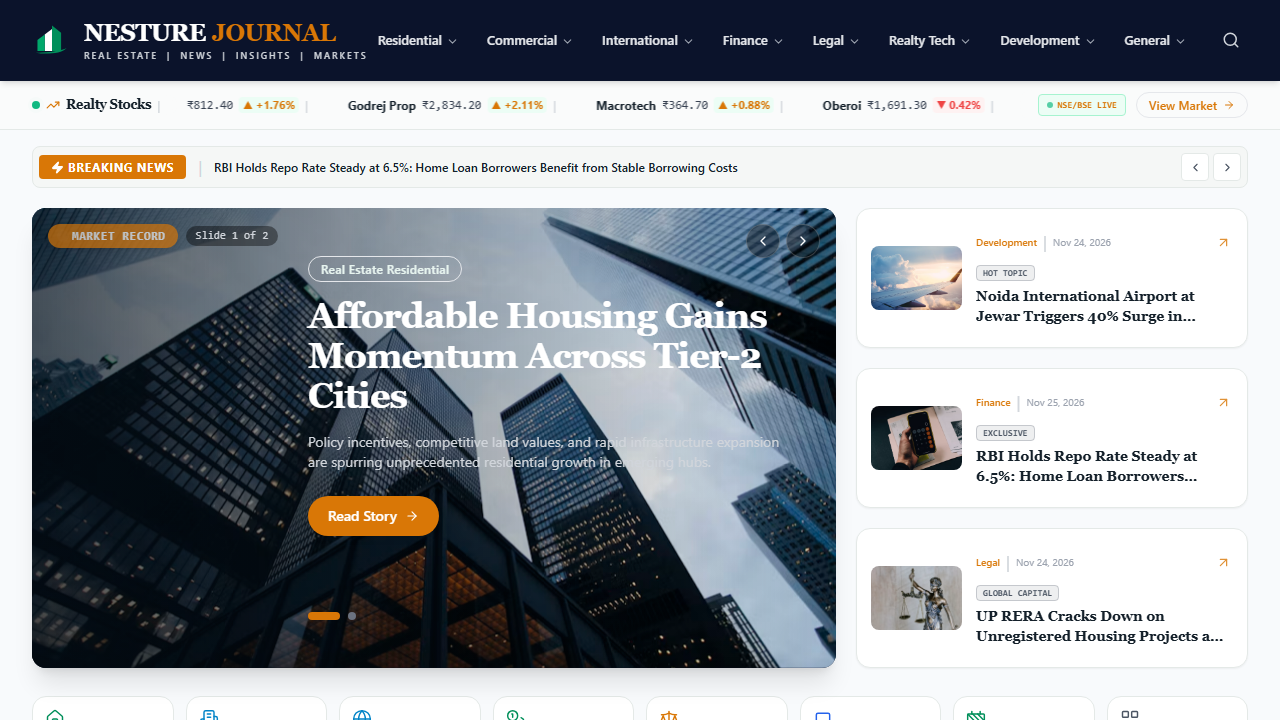
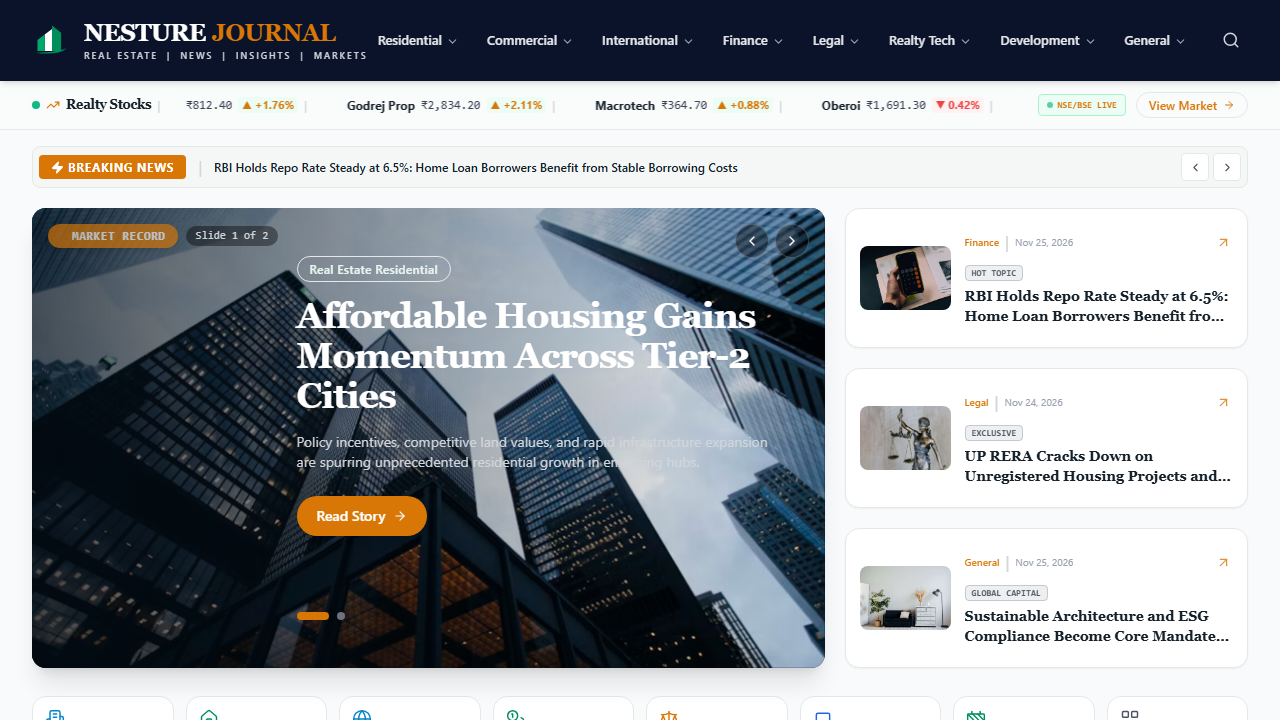
UI change complete

diff --git a/components/home/HeroSection.tsx b/components/home/HeroSection.tsx
@@ -105,7 +105,7 @@ export default function HeroSection() {
   const [slides, setSlides] = useState<HeroStory[]>(DEFAULT_SLIDES);
   const [cards, setCards] = useState(DEFAULT_RIGHT_CARDS);
   const [isPaused, setIsPaused] = useState(false);
-  const dragBaseRef = useRef({ heroHeight: 460, sideHeight: 85, thumbWidth: 96 });
+  const dragBaseRef = useRef({ heroHeight: 460, heroWidthPct: 66, sideHeight: 85, thumbWidth: 96 });
 
   useEffect(() => {
     fetch('/api/articles?status=PUBLISHED&limit=20', { cache: 'no-store' })
@@ -218,7 +218,9 @@ export default function HeroSection() {
     return null;
   }
 
-  const isFullWidth = theme?.heroWidth === 'full';
+  const customWidthPct = (theme as any)?.heroWidthPct as number | undefined;
+  const isFullWidth = customWidthPct !== undefined ? customWidthPct >= 92 : theme?.heroWidth === 'full';
+  const effectiveWidthPct = customWidthPct ?? (isFullWidth ? 100 : 66);
   const bannerMinHeight = theme?.heroHeight || '460px';
   const bannerHeightNum = parseInt(bannerMinHeight, 10) || 460;
   const sideCardHeightNum = parseInt(theme?.sideCardHeight || '85px', 10) || 85;
@@ -226,34 +228,43 @@ export default function HeroSection() {
 
   return (
     <section className="max-w-[1440px] mx-auto px-3 sm:px-6 lg:px-8 py-3">
-      <div className="grid grid-cols-1 lg:grid-cols-12 gap-4 lg:gap-5">
-        {/* Left Hero Big Banner Card - Dynamic 8-Col or 12-Col Full Width with Auto-Reflow */}
+      <div className="flex flex-col lg:flex-row lg:flex-wrap gap-4 lg:gap-5 items-stretch">
+        {/* Left Hero Big Banner Card - Freeform Width & Height */}
         <div
-          style={{ height: bannerMinHeight, borderRadius: theme?.borderRadius || '14px' }}
-          className={`${
-            isFullWidth ? 'lg:col-span-12' : 'lg:col-span-8'
-          } relative`}
+          style={{
+            height: bannerMinHeight,
+            borderRadius: theme?.borderRadius || '14px',
+            flexBasis: isFullWidth ? '100%' : `calc(${effectiveWidthPct}% - 10px)`,
+            maxWidth: '100%',
+          }}
+          className="w-full lg:w-auto flex-shrink-0 relative"
         >
           <CustomizerSectionHandles
-            badgeText={`Banner: ${bannerHeightNum}px × ${isFullWidth ? '12-Cols' : '8-Cols'}`}
+            badgeText={`Banner: ${bannerHeightNum}px × ${effectiveWidthPct}%`}
             bottomLabel={`Drag with mouse to resize (${bannerHeightNum}px)`}
-            sideLabel={isFullWidth ? '12-Col' : '8-Col'}
+            sideLabel={`${effectiveWidthPct}%`}
             onDragStart={() => {
               dragBaseRef.current.heroHeight = bannerHeightNum;
+              dragBaseRef.current.heroWidthPct = effectiveWidthPct;
             }}
             onVerticalDrag={(deltaY) => {
-              const nextH = Math.max(280, Math.min(650, dragBaseRef.current.heroHeight + deltaY));
+              const nextH = Math.max(180, Math.min(900, dragBaseRef.current.heroHeight + deltaY));
               broadcastCustomizerResize({ heroHeight: `${nextH}px` });
             }}
             onHorizontalDrag={(deltaX) => {
-              if (deltaX > 25 && !isFullWidth) {
-                broadcastCustomizerResize({ heroWidth: 'full' });
-              } else if (deltaX < -25 && isFullWidth) {
-                broadcastCustomizerResize({ heroWidth: 'split' });
-              }
+              const deltaPct = Math.round(deltaX / 8);
+              const nextPct = Math.max(40, Math.min(100, dragBaseRef.current.heroWidthPct + deltaPct));
+              broadcastCustomizerResize({
+                heroWidthPct: nextPct,
+                heroWidth: nextPct >= 92 ? 'full' : 'split',
+              } as any);
             }}
             onHorizontalClick={() => {
-              broadcastCustomizerResize({ heroWidth: isFullWidth ? 'split' : 'full' });
+              const nextPct = isFullWidth ? 66 : 100;
+              broadcastCustomizerResize({
+                heroWidthPct: nextPct,
+                heroWidth: nextPct >= 92 ? 'full' : 'split',
+              } as any);
             }}
           />
           <div
@@ -361,13 +372,13 @@ export default function HeroSection() {
         </div>
         </div>
 
-        {/* Right Stacked Stories (4 Cols / or 12-Cols 3-Card Row when Full Width) */}
+        {/* Right Stacked Stories (flexes alongside banner or wraps below when >= 92%) */}
         <div
           id="hero-side-stories"
           className={`relative rounded-2xl ${
             isFullWidth
-              ? 'lg:col-span-12 grid grid-cols-1 sm:grid-cols-3 gap-3 sm:gap-4'
-              : 'lg:col-span-4 flex flex-col justify-between space-y-3 sm:space-y-4'
+              ? 'w-full grid grid-cols-1 sm:grid-cols-3 gap-3 sm:gap-4'
+              : 'w-full lg:flex-1 lg:min-w-[260px] flex flex-col justify-between space-y-3 sm:space-y-4'
           }`}
         >
           <CustomizerSectionHandles
@@ -379,11 +390,11 @@ export default function HeroSection() {
               dragBaseRef.current.thumbWidth = sideThumbWidthNum;
             }}
             onVerticalDrag={(deltaY) => {
-              const nextH = Math.max(60, Math.min(140, dragBaseRef.current.sideHeight + Math.round(deltaY / 2)));
+              const nextH = Math.max(50, Math.min(260, dragBaseRef.current.sideHeight + Math.round(deltaY / 2)));
               broadcastCustomizerResize({ sideCardHeight: `${nextH}px` });
             }}
             onHorizontalDrag={(deltaX) => {
-              const nextW = Math.max(64, Math.min(150, dragBaseRef.current.thumbWidth + Math.round(deltaX / 2)));
+              const nextW = Math.max(48, Math.min(220, dragBaseRef.current.thumbWidth + Math.round(deltaX / 2)));
               broadcastCustomizerResize({ sideCardThumbnailWidth: `${nextW}px` });
             }}
           />

diff --git a/app/admin/articles/page.tsx b/app/admin/articles/page.tsx
@@ -113,14 +113,24 @@ function ArticlesDeskContent() {
     id?: string;
     currentStatus?: string;
     title?: string;
+    anchor?: { top: number; bottom: number; left: number; right: number };
   } | null>(null);
 
-  const handleTogglePublish = (id: string, currentStatus: string, title?: string) => {
+  const handleTogglePublish = (
+    id: string,
+    currentStatus: string,
+    title?: string,
+    e?: React.MouseEvent<HTMLElement>
+  ) => {
+    const rect = e?.currentTarget?.getBoundingClientRect();
     setPublishConfirm({
       mode: 'single',
       id,
       currentStatus,
       title: title || 'this article',
+      anchor: rect
+        ? { top: rect.top, bottom: rect.bottom, left: rect.left, right: rect.right }
+        : undefined,
     });
   };
 
@@ -358,7 +368,13 @@ function ArticlesDeskContent() {
               {counts.unpublished > 0 && (
                 <button
                   type="button"
-                  onClick={() => setPublishConfirm({ mode: 'all' })}
+                  onClick={(e) => {
+                    const rect = e.currentTarget.getBoundingClientRect();
+                    setPublishConfirm({
+                      mode: 'all',
+                      anchor: { top: rect.top, bottom: rect.bottom, left: rect.left, right: rect.right },
+                    });
+                  }}
                   disabled={isPublishing}
                   className="px-4 py-2.5 bg-[#008F5A] hover:bg-[#007348] text-white text-xs font-extrabold rounded-xl transition btn-press flex items-center space-x-2 shadow-md disabled:opacity-60"
                 >
@@ -638,7 +654,7 @@ function ArticlesDeskContent() {
 
                     {/* Publish / Unpublish Button */}
                     <button
-                      onClick={() => handleTogglePublish(art.id, art.status, art.title)}
+                      onClick={(e) => handleTogglePublish(art.id, art.status, art.title, e)}
                       className={`px-3.5 py-1.5 text-xs font-extrabold rounded-xl shadow-xs transition btn-press flex items-center space-x-1.5 ${
                         isPub
                           ? 'bg-slate-100 hover:bg-slate-200 text-slate-700'
@@ -794,7 +810,7 @@ function ArticlesDeskContent() {
                           </Link>
 
                           <button
-                            onClick={() => handleTogglePublish(art.id, art.status, art.title)}
+                            onClick={(e) => handleTogglePublish(art.id, art.status, art.title, e)}
                             title={isPub ? 'Unpublish to Draft' : 'Publish Live'}
                             className="p-1 text-slate-400 hover:text-amber-600 rounded-lg hover:bg-amber-50 transition"
                           >
@@ -931,7 +947,7 @@ function ArticlesDeskContent() {
 
               <div className="flex items-center space-x-2">
                 <button
-                  onClick={() => handleTogglePublish(previewArticle.id, previewArticle.status, previewArticle.title)}
+                  onClick={(e) => handleTogglePublish(previewArticle.id, previewArticle.status, previewArticle.title, e)}
                   className={`px-5 py-1.5 text-xs font-extrabold rounded-xl transition btn-press shadow-xs ${
                     previewArticle.status === 'PUBLISHED'
                       ? 'bg-amber-600 hover:bg-amber-700 text-white'
@@ -957,11 +973,25 @@ function ArticlesDeskContent() {
          ========================================================================= */}
       {publishConfirm && (
         <div
-          className="fixed inset-0 bg-slate-900/60 backdrop-blur-xs z-50 flex items-center justify-center p-4 animate-fade-in"
+          className="fixed inset-0 bg-slate-900/25 z-50 animate-fade-in"
           onClick={() => !isPublishing && setPublishConfirm(null)}
         >
           <div
-            className="bg-white rounded-2xl max-w-md w-full p-6 shadow-2xl border border-slate-200 space-y-4"
+            style={
+              publishConfirm.anchor && typeof window !== 'undefined'
+                ? {
+                    position: 'fixed',
+                    top: `${Math.max(16, Math.min(window.innerHeight - 230, publishConfirm.anchor.bottom + 8))}px`,
+                    left: `${Math.max(16, Math.min(window.innerWidth - 400, publishConfirm.anchor.left - 120))}px`,
+                  }
+                : {
+                    position: 'fixed',
+                    top: '50%',
+                    left: '50%',
+                    transform: 'translate(-50%, -50%)',
+                  }
+            }
+            className="bg-white rounded-2xl max-w-sm w-[calc(100vw-32px)] p-5 shadow-2xl border-2 border-emerald-500/40 space-y-3.5"
             onClick={(e) => e.stopPropagation()}
           >
             <div className="flex items-center space-x-3">

diff --git a/components/home/LatestInsightsSection.tsx b/components/home/LatestInsightsSection.tsx
@@ -170,7 +170,7 @@ export default function LatestInsightsSection() {
               dragBaseRef.current.imgHeight = imgHeightNum;
             }}
             onVerticalDrag={(deltaY) => {
-              const nextH = Math.max(120, Math.min(280, dragBaseRef.current.imgHeight + Math.round(deltaY / 2)));
+              const nextH = Math.max(80, Math.min(420, dragBaseRef.current.imgHeight + Math.round(deltaY / 2)));
               broadcastCustomizerResize({ insightsCardImageHeight: `${nextH}px` });
             }}
             onHorizontalDrag={(deltaX) => {
@@ -267,7 +267,7 @@ export default function LatestInsightsSection() {
               dragBaseRef.current.marketHeight = marketHeightNum;
             }}
             onVerticalDrag={(deltaY) => {
-              const nextH = Math.max(320, Math.min(560, dragBaseRef.current.marketHeight + deltaY));
+              const nextH = Math.max(240, Math.min(800, dragBaseRef.current.marketHeight + deltaY));
               broadcastCustomizerResize({ marketWidgetHeight: `${nextH}px` });
             }}
           />

diff --git a/app/admin/login/page.tsx b/app/admin/login/page.tsx
@@ -66,9 +66,9 @@ export default function AdminLoginPage() {
             <ShieldCheck size={14} />
             <span>Editorial Management System</span>
           </div>
-          <p className="text-gray-400 text-xs sm:text-sm mt-1.5">
+          {/* <p className="text-gray-400 text-xs sm:text-sm mt-1.5">
             Real-time content management & PostgreSQL publication desk.
-          </p>
+          </p> */}
         </div>
 
         {/* Card */}

diff --git a/app/sitemap-html/page.tsx b/app/sitemap-html/page.tsx
@@ -9,7 +9,8 @@ export const metadata = {
   description: 'Complete directory index of all public articles, categories, and intelligence portals.',
 };
 
-export const revalidate = 60;
+export const dynamic = 'force-dynamic';
+export const revalidate = 0;
 
 export default async function SitemapHtmlPage() {
   const [categories, articles] = await Promise.all([

diff --git a/app/market-intelligence/page.tsx b/app/market-intelligence/page.tsx
@@ -22,7 +22,8 @@ export const metadata: Metadata = {
   alternates: { canonical: '/market-intelligence' },
 };
 
-export const revalidate = 60;
+export const dynamic = 'force-dynamic';
+export const revalidate = 0;
 
 export default async function MarketIntelligencePage() {
   const marketData = await prisma.marketData.findMany({

diff --git a/app/realty-stocks/page.tsx b/app/realty-stocks/page.tsx
@@ -14,7 +14,8 @@ export const metadata: Metadata = {
   alternates: { canonical: '/realty-stocks' },
 };
 
-export const revalidate = 60;
+export const dynamic = 'force-dynamic';
+export const revalidate = 0;
 
 export default async function RealtyStocksPage() {
   const stocks = await prisma.marketData.findMany({

diff --git a/app/articles/page.tsx b/app/articles/page.tsx
@@ -14,7 +14,8 @@ export const metadata: Metadata = {
   alternates: { canonical: '/articles' },
 };
 
-export const revalidate = 60;
+export const dynamic = 'force-dynamic';
+export const revalidate = 0;
 
 export default async function ArticlesPage() {
   const articles = await prisma.article.findMany({

diff --git a/app/trending/page.tsx b/app/trending/page.tsx
@@ -14,7 +14,8 @@ export const metadata: Metadata = {
   alternates: { canonical: '/trending' },
 };
 
-export const revalidate = 60;
+export const dynamic = 'force-dynamic';
+export const revalidate = 0;
 
 export default async function TrendingPage() {
   const articles = await prisma.article.findMany({
